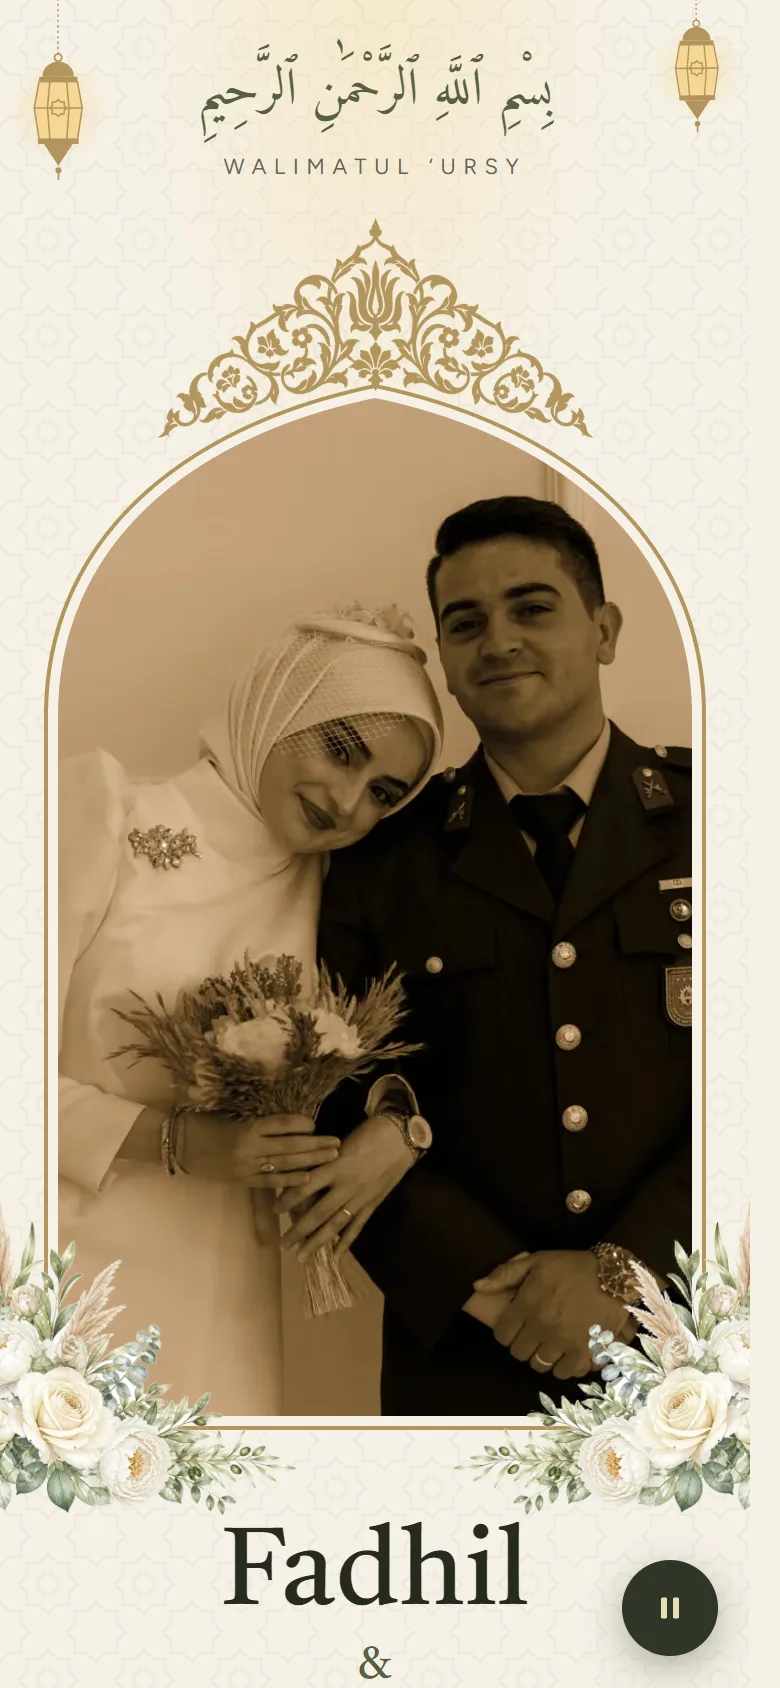
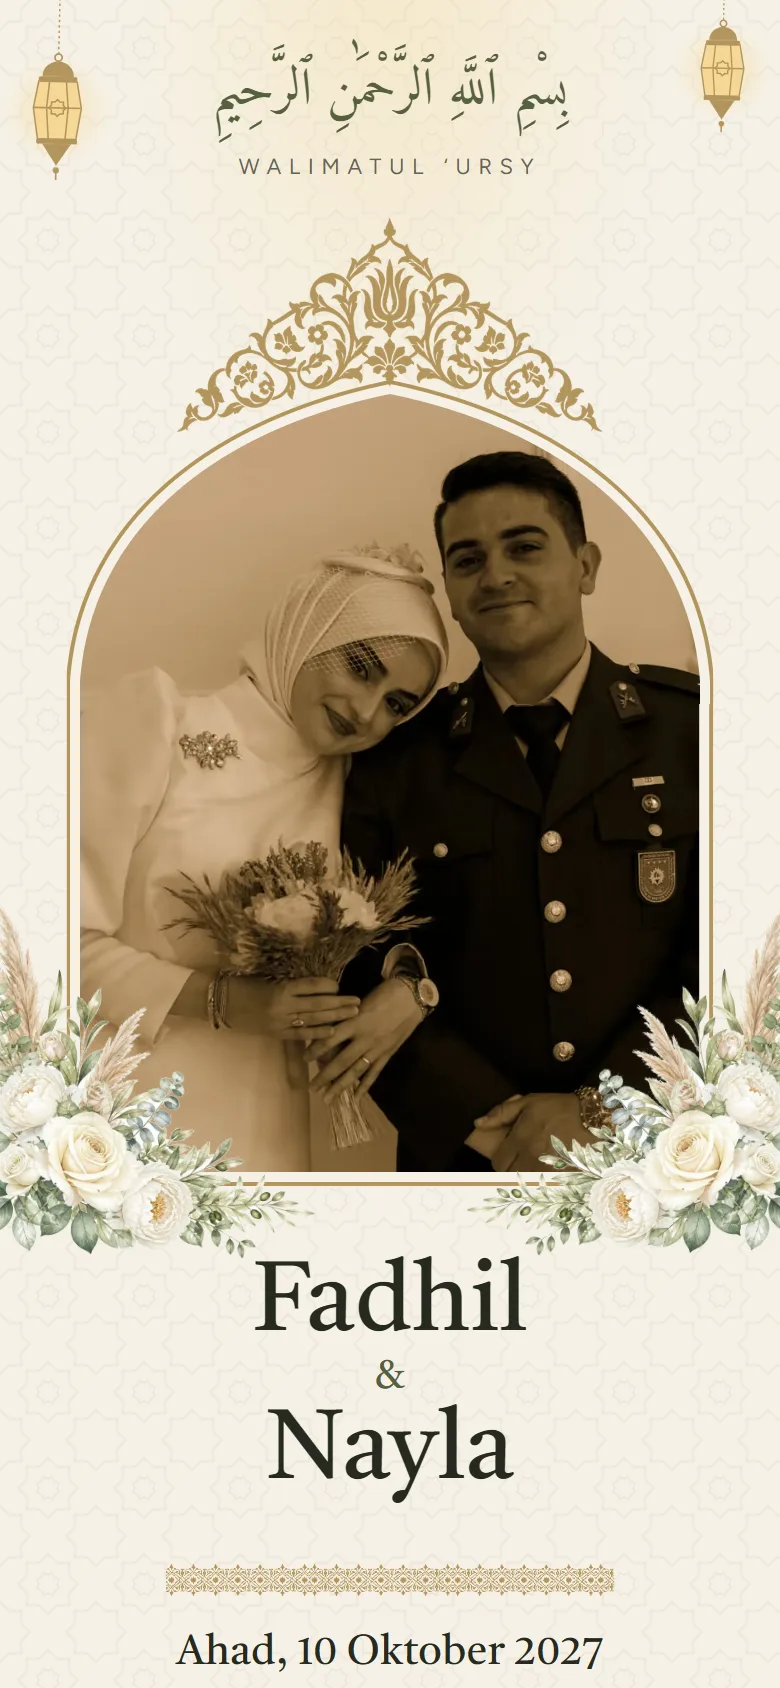
feat: enhance pricing component with new features and improve styles

diff --git a/src/components/home/pricing.tsx b/src/components/home/pricing.tsx
@@ -1,61 +1,64 @@
-import { Container, SectionSub, SectionTitle, btn, cx, reveal, sectionPad } from "@/components/ui";
+import { Container, SectionSub, SectionTitle, cx, reveal, sectionPad } from "@/components/ui";
 import { formatPhotos, formatRupiah, type Settings } from "@/lib/settings";
+import { THEME_NAMES } from "@/themes/media";
 
-type Plan = { tier: string; flag?: string; price: number; forWho: string; lead?: string; items: string[]; highlight?: boolean };
+type Feature = { label: string; note?: string; on: boolean };
+type Plan = { tier: string; badge?: string; price: number; blurb: string; sla: number; active: number; features: Feature[] };
 
-const REVISI = "Revisi bebas sampai undangan disebar";
-const galeri = (n: number | null) => (n === null ? "Galeri foto tanpa batas" : `Galeri ${formatPhotos(n)}`);
+const THEME_COUNT = Object.keys(THEME_NAMES).length;
+
+const masa = (bulan: number) => (bulan >= 24 && bulan % 12 === 0 ? `${bulan / 12} tahun` : `${bulan} bulan`);
+const galeri = (n: number | null) => {
+  const s = formatPhotos(n);
+  return s[0].toUpperCase() + s.slice(1);
+};
+
+// Semua paket menampilkan daftar yang sama supaya mudah dibandingkan. Tingkat 0 Dasar, 1 Lengkap, 2 Istimewa.
+function features(level: number, photos: number | null): Feature[] {
+  return [
+    { label: "Pilihan tema", note: level === 0 ? `2 dari ${THEME_COUNT} tema` : `Semua ${THEME_COUNT} tema`, on: true },
+    { label: "Warna tema disesuaikan", on: level >= 1 },
+    { label: "Galeri foto", note: galeri(photos), on: true },
+    { label: "Musik latar bawaan tema", on: true },
+    { label: "Musik latar pilihan sendiri", on: level >= 1 },
+    { label: "Cerita perjalanan kalian", on: level >= 1 },
+    { label: "Nama tamu muncul di undangan", on: level >= 1 },
+    { label: "Peta lokasi dan hitung mundur", on: true },
+    { label: "RSVP dan buku ucapan", on: true },
+    { label: "Amplop digital", on: true },
+    { label: "Sebar tanpa batas jumlah tamu", on: true },
+    { label: "Daftar tamu diunduh ke Excel", on: level >= 2 },
+    { label: "QR absensi tamu di lokasi", on: level >= 2 },
+    { label: "Revisi bebas sampai undangan disebar", on: true },
+  ];
+}
 
 function plans(s: Settings): Plan[] {
   return [
     {
-      tier: "DASAR",
+      tier: "Dasar",
       price: s.priceDasar,
-      forWho: "yang penting undangan cepat tersebar",
-      items: [
-        "Pilihan 2 tema",
-        galeri(s.photosDasar),
-        "Musik latar bawaan tema",
-        "RSVP dan buku ucapan",
-        "Peta lokasi dan hitung mundur",
-        "Amplop digital",
-        "Sebar tanpa batas jumlah tamu",
-        `Jadi dalam ${s.slaDasar} hari kerja`,
-        `Aktif ${s.activeDasar} bulan`,
-        REVISI,
-      ],
+      blurb: "Yang penting undangan cepat tersebar",
+      sla: s.slaDasar,
+      active: s.activeDasar,
+      features: features(0, s.photosDasar),
     },
     {
-      tier: "LENGKAP",
-      flag: "PALING BANYAK DIPESAN",
-      highlight: true,
+      tier: "Lengkap",
+      badge: "Rekomendasi kami",
       price: s.priceLengkap,
-      forWho: "pilihan sebagian besar pasangan",
-      lead: "Semua isi paket Dasar, ditambah:",
-      items: [
-        "Semua tema, warna disesuaikan",
-        galeri(s.photosLengkap),
-        "Musik latar pilihan sendiri",
-        "Nama tamu muncul di undangan",
-        "Cerita perjalanan kalian",
-        `Jadi dalam ${s.slaLengkap} hari kerja`,
-        `Aktif ${s.activeLengkap} bulan`,
-        REVISI,
-      ],
+      blurb: "Paling seimbang antara fitur dan harga",
+      sla: s.slaLengkap,
+      active: s.activeLengkap,
+      features: features(1, s.photosLengkap),
     },
     {
-      tier: "ISTIMEWA",
+      tier: "Istimewa",
       price: s.priceIstimewa,
-      forWho: "paling cepat jadi, siap untuk hari H",
-      lead: "Semua isi paket Lengkap, ditambah:",
-      items: [
-        galeri(s.photosIstimewa),
-        "Daftar tamu bisa diunduh ke Excel",
-        "QR absensi tamu di lokasi",
-        `Jadi dalam ${s.slaIstimewa} hari kerja`,
-        `Aktif ${s.activeIstimewa} bulan`,
-        REVISI,
-      ],
+      blurb: "Paling cepat jadi, siap untuk hari H",
+      sla: s.slaIstimewa,
+      active: s.activeIstimewa,
+      features: features(2, s.photosIstimewa),
     },
   ];
 }
@@ -72,6 +75,68 @@ function addons(s: Settings) {
   ];
 }
 
+function Mark({ on }: { on: boolean }) {
+  return (
+    <svg viewBox="0 0 16 16" aria-hidden="true" className={cx("absolute top-[0.35em] left-0 size-3.5 fill-none stroke-[1.7]", on ? "stroke-wine-soft lit:stroke-ink" : "stroke-ink-mute lit:stroke-ink/45")}>
+      {on ? <path d="M2 8.5l4 4 8-9" /> : <path d="M3 3l10 10M13 3L3 13" />}
+    </svg>
+  );
+}
+
+// Kartu berubah ke warna tombol saat disorot atau saat isinya mendapat fokus (variant lit di globals.css).
+function PlanCard({ p, waHref, rec }: { p: Plan; waHref: string; rec: boolean }) {
+  const fade = "transition-colors duration-200";
+  return (
+    <article className="plan relative flex h-full flex-col rounded-[14px] border border-night-line bg-night px-[22px] pt-7 pb-[26px] transition-[background-color,border-color,transform] duration-200 lit:border-wine-soft lit:bg-wine-soft sm:px-7 sm:pt-[34px] sm:pb-[30px] [@media(hover:hover)]:hover:-translate-y-1 motion-reduce:transform-none">
+      {p.badge && (
+        <span className={cx("absolute top-[26px] right-[22px] rounded-full border border-wine-soft/50 bg-wine-soft/28 px-[11px] py-[5px] text-[10px] font-medium tracking-[.17em] text-paper uppercase lit:border-ink/30 lit:bg-ink/14 lit:text-ink sm:top-[30px] sm:right-[26px]", fade)}>
+          {p.badge}
+        </span>
+      )}
+      <h3 className={cx("mb-4 text-[11px] font-medium tracking-[.26em] text-mist uppercase lit:text-ink/70", fade)}>{p.tier}</h3>
+      <p className={cx("mb-2.5 font-serif text-[38px] leading-none font-medium text-paper lit:text-ink sm:text-[42px]", fade)}>{formatRupiah(p.price)}</p>
+      <p className={cx("mb-[22px] text-sm leading-normal font-light text-mist lit:text-ink/70", fade)}>{p.blurb}</p>
+
+      <dl className={cx("mb-[22px] flex border-y border-night-line lit:border-ink/20", fade)}>
+        {[
+          ["Jadi dalam", `${p.sla} hari kerja`],
+          ["Masa aktif", masa(p.active)],
+        ].map(([lab, val], i) => (
+          <div key={lab} className={cx("flex-1 py-3.5", i > 0 && "border-l border-night-line pl-4 lit:border-ink/20", fade)}>
+            <dt className={cx("mb-[5px] text-[10px] tracking-[.17em] text-mist uppercase lit:text-ink/70", fade)}>{lab}</dt>
+            <dd className={cx("font-serif text-lg leading-tight text-paper lit:text-ink sm:text-xl", fade)}>{val}</dd>
+          </div>
+        ))}
+      </dl>
+
+      <ul className="mb-7 flex-1">
+        {p.features.map((f) => (
+          <li
+            key={f.label}
+            className={cx("relative py-1 pl-7 text-[14.5px] leading-snug font-light", f.on ? "text-dusk-light lit:text-ink" : "text-ink-mute opacity-75 lit:text-ink/45 lit:opacity-100", fade)}
+          >
+            <Mark on={f.on} />
+            <span className="sr-only">{f.on ? "Termasuk: " : "Tidak termasuk: "}</span>
+            {f.label}
+            {f.note && <span className={cx("mt-0.5 block text-[12.5px] tracking-[.02em] text-mist lit:text-ink/70", fade)}>{f.note}</span>}
+          </li>
+        ))}
+      </ul>
+
+      <a
+        href={waHref}
+        aria-label={`Pesan paket ${p.tier}`}
+        className={cx(
+          "block rounded-lg border px-[18px] py-3.5 text-center text-sm tracking-[.04em] no-underline transition-colors duration-200 lit:border-ink lit:bg-ink lit:text-paper focus-visible:outline-2 focus-visible:outline-offset-3 focus-visible:outline-paper",
+          rec ? "border-wine-soft bg-wine-soft text-ink" : "border-wine-soft text-paper",
+        )}
+      >
+        Pesan paket ini
+      </a>
+    </article>
+  );
+}
+
 export function Pricing({ settings, waHref }: { settings: Settings; waHref: string }) {
   return (
     <section id="paket" className="bg-ink text-paper">
@@ -79,62 +144,31 @@ export function Pricing({ settings, waHref }: { settings: Settings; waHref: stri
         <SectionTitle className="text-paper" {...reveal()}>
           Harga
         </SectionTitle>
-        <SectionSub className="text-mist" {...reveal()}>
-          Bayar sekali, tidak ada biaya bulanan. Domain dan hosting sudah termasuk selama masa aktif.
+        <SectionSub className="max-w-[52ch] font-light text-mist" {...reveal()}>
+          Bayar sekali, tidak ada biaya bulanan. Tautan undangan dan hosting sudah termasuk selama masa aktif.
         </SectionSub>
-        <div className="grid grid-cols-1 gap-6 md:grid-cols-3 md:gap-7">
+        <div className="grid grid-cols-1 gap-[18px] lg:grid-cols-3 lg:gap-[22px]">
           {plans(settings).map((p, i) => (
             <div key={p.tier} {...reveal(i)}>
-              <div
-                className={cx(
-                  "flex h-full flex-col rounded-sm border px-8 py-[38px] transition-[transform,border-color,background-color] duration-200 hover:-translate-y-1.5 hover:border-wine-soft hover:bg-night-hi motion-reduce:transform-none",
-                  p.highlight ? "border-wine-soft bg-night-hi" : "border-night-line bg-night",
-                )}
-              >
-                <div className="mb-4 flex items-center justify-between gap-2">
-                  <span className="text-[13px] tracking-[2px] text-wine-soft">{p.tier}</span>
-                  {p.flag && (
-                    <span className="rounded-sm bg-wine-soft px-2.5 py-[5px] text-[11px] tracking-[1px] text-ink">
-                      {p.flag}
-                    </span>
-                  )}
-                </div>
-                <p className="mb-1.5 font-serif text-[42px] text-paper">{formatRupiah(p.price)}</p>
-                <p className="mb-[26px] text-sm text-dusk">{p.forWho}</p>
-                {p.lead && <p className="mb-3 text-sm text-mist">{p.lead}</p>}
-                <ul className="mb-8 flex flex-col gap-3 text-[15px] text-dusk-light">
-                  {p.items.map((item) => (
-                    <li key={item}>{item}</li>
-                  ))}
-                </ul>
-                <a
-                  href={waHref}
-                  className={cx(
-                    btn.base,
-                    "mt-auto block border border-wine-soft p-[15px] text-center text-[15px]",
-                    p.highlight
-                      ? "bg-wine-soft text-ink hover:bg-wine-pale"
-                      : "text-wine-soft hover:bg-wine-soft hover:text-ink",
-                  )}
-                >
-                  Pesan paket ini
-                </a>
-              </div>
+              <PlanCard p={p} waHref={waHref} rec={!!p.badge} />
             </div>
           ))}
         </div>
+        <p className="mt-[26px] text-center text-[13.5px] font-light text-mist" {...reveal()}>
+          Pembayaran dengan uang muka 50 persen. Undangan dilepas tanpa watermark setelah pelunasan.
+        </p>
 
-        <div className="mt-14 md:mt-16" {...reveal()}>
-          <h3 className="font-serif text-[28px] text-paper">Tambahan di luar paket</h3>
-          <p className="mt-1.5 text-sm text-dusk">Bisa ditambahkan saat memesan. Sebutkan saja lewat WhatsApp.</p>
-          <ul className="mt-6 grid grid-cols-1 border-t border-night-line md:grid-cols-2 md:gap-x-10">
+        <div className="mt-16 md:mt-[78px]" {...reveal()}>
+          <h3 className="font-serif text-[28px] font-medium text-paper">Tambahan di luar paket</h3>
+          <p className="mt-2 text-base font-light text-mist">Bisa ditambahkan saat memesan. Sebutkan saja lewat WhatsApp.</p>
+          <ul className="mt-[30px] grid grid-cols-1 md:grid-cols-2 md:gap-x-12">
             {addons(settings).map((a) => (
-              <li key={a.name} className="flex items-baseline justify-between gap-4 border-b border-night-line py-3.5">
-                <span className="min-w-0">
-                  <span className="block text-[15px] text-dusk-light">{a.name}</span>
-                  <span className="block text-[13px] text-dusk">{a.for}</span>
+              <li key={a.name} className="flex items-baseline justify-between gap-[18px] border-t border-night-line py-[18px]">
+                <span className="min-w-0 text-[15px] leading-snug font-light text-dusk-light">
+                  {a.name}
+                  <small className="mt-[3px] block text-xs text-mist">{a.for}</small>
                 </span>
-                <span className="shrink-0 font-serif text-xl text-paper">{formatRupiah(a.price)}</span>
+                <span className="shrink-0 font-serif text-[19px] text-wine-soft">{formatRupiah(a.price)}</span>
               </li>
             ))}
           </ul>

diff --git a/src/app/globals.css b/src/app/globals.css
@@ -1,5 +1,17 @@
 @import "tailwindcss";
 
+/* Kartu harga yang sedang disorot (perangkat dengan hover) atau berisi elemen yang difokus. */
+@custom-variant lit {
+  @media (hover: hover) {
+    &:is(.plan:hover, .plan:hover *) {
+      @slot;
+    }
+  }
+  &:is(.plan:focus-within, .plan:focus-within *) {
+    @slot;
+  }
+}
+
 @theme {
   --color-ivory: #faf7f2;
   --color-blush: #f4eae6;
